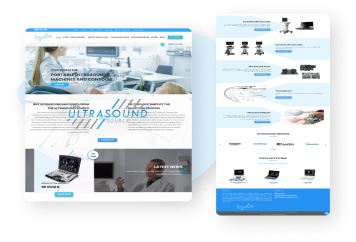
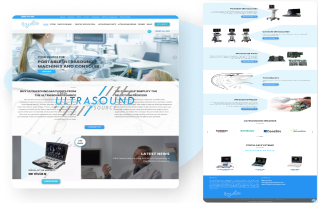
8th commit

diff --git a/portfolio.html b/portfolio.html
@@ -176,8 +176,8 @@
                   </div>
                   <div class="col-lg-4">
                     <div class="portfolio-card-list">
-                      <img src="./img/portfolio/portfolio-card-1.png" alt="" />
-                      <p>Pabna Online</p>
+                      <img src="./img/portfolio/portfolio-card-2.png" alt="" />
+                      <p>The Ultrasound</p>
                       <div class="portfolio-card-list-btn">
                         <a href="#">Live Preview</a>
                         <a href="#">View More</a>
@@ -186,41 +186,8 @@
                   </div>
                   <div class="col-lg-4">
                     <div class="portfolio-card-list">
-                      <img src="./img/portfolio/portfolio-card-1.png" alt="" />
-                      <p>Pabna Online</p>
-                      <div class="portfolio-card-list-btn">
-                        <a href="#">Live Preview</a>
-                        <a href="#">View More</a>
-                      </div>
-                    </div>
-                  </div>
-                </div>
-
-                <div class="row portfolio-cards-item">
-                  <div class="col-lg-4">
-                    <div class="portfolio-card-list">
-                      <img src="./img/portfolio/portfolio-card-1.png" alt="" />
-                      <p>Pabna Online</p>
-                      <div class="portfolio-card-list-btn">
-                        <a href="#">Live Preview</a>
-                        <a href="#">View More</a>
-                      </div>
-                    </div>
-                  </div>
-                  <div class="col-lg-4">
-                    <div class="portfolio-card-list">
-                      <img src="./img/portfolio/portfolio-card-1.png" alt="" />
-                      <p>Pabna Online</p>
-                      <div class="portfolio-card-list-btn">
-                        <a href="#">Live Preview</a>
-                        <a href="#">View More</a>
-                      </div>
-                    </div>
-                  </div>
-                  <div class="col-lg-4">
-                    <div class="portfolio-card-list">
-                      <img src="./img/portfolio/portfolio-card-1.png" alt="" />
-                      <p>Pabna Online</p>
+                      <img src="./img/portfolio/portfolio-card-3.png" alt="" />
+                      <p>Travnext</p>
                       <div class="portfolio-card-list-btn">
                         <a href="#">Live Preview</a>
                         <a href="#">View More</a>
@@ -232,8 +199,8 @@
                 <div class="row portfolio-cards-item">
                   <div class="col-lg-4">
                     <div class="portfolio-card-list">
-                      <img src="./img/portfolio/portfolio-card-1.png" alt="" />
-                      <p>Pabna Online</p>
+                      <img src="./img/portfolio/portfolio-card-2.png" alt="" />
+                      <p>The Ultrasound</p>
                       <div class="portfolio-card-list-btn">
                         <a href="#">Live Preview</a>
                         <a href="#">View More</a>
@@ -244,6 +211,39 @@
                     <div class="portfolio-card-list">
                       <img src="./img/portfolio/portfolio-card-1.png" alt="" />
                       <p>Pabna Online</p>
+                      <div class="portfolio-card-list-btn">
+                        <a href="#">Live Preview</a>
+                        <a href="#">View More</a>
+                      </div>
+                    </div>
+                  </div>
+                  <div class="col-lg-4">
+                    <div class="portfolio-card-list">
+                      <img src="./img/portfolio/portfolio-card-4.png" alt="" />
+                      <p>Agencycare</p>
+                      <div class="portfolio-card-list-btn">
+                        <a href="#">Live Preview</a>
+                        <a href="#">View More</a>
+                      </div>
+                    </div>
+                  </div>
+                </div>
+
+                <div class="row portfolio-cards-item">
+                  <div class="col-lg-4">
+                    <div class="portfolio-card-list">
+                      <img src="./img/portfolio/portfolio-card-4.png" alt="" />
+                      <p>Agencycare</p>
+                      <div class="portfolio-card-list-btn">
+                        <a href="#">Live Preview</a>
+                        <a href="#">View More</a>
+                      </div>
+                    </div>
+                  </div>
+                  <div class="col-lg-4">
+                    <div class="portfolio-card-list">
+                      <img src="./img/portfolio/portfolio-card-2.png" alt="" />
+                      <p>The Ultrasound</p>
                       <div class="portfolio-card-list-btn">
                         <a href="#">Live Preview</a>
                         <a href="#">View More</a>

diff --git a/style.css b/style.css
@@ -86,6 +86,7 @@ a {
     z-index: 1;
     display: inline-block;
 }
+
 .course-btn::before {
     content: '';
     position: absolute;
@@ -117,6 +118,7 @@ a {
         transform: scale(1);
         opacity: 1;
     }
+
     100% {
         transform: scale(1.2, 1.5);
         opacity: 0;
@@ -384,6 +386,7 @@ a.more-btn {
     text-decoration: none;
     color: #000;
 }
+
 .service-card-link:hover {
     color: #DD0000;
 }
@@ -426,6 +429,7 @@ a.more-btn {
 /* Web Technologies Section */
 
 /* Our Portfolio Section */
+
 .portfolio-section {
     margin: 80px 0 120px 0;
 }
@@ -445,11 +449,6 @@ a.more-btn {
 @media screen and (max-width: 576px) {
     .nav-tabs {
         width: 100%;
-    }
-
-    .portfolio-view img {
-        width: 100%;
-        height: 500px;
     }
 }
 
@@ -1171,7 +1170,7 @@ a.more-btn {
     margin: 20px 0 10px 0;
 }
 
-.package-btn a{
+.package-btn a {
     position: relative;
     padding: 10px 35px;
     text-align: center;
@@ -1242,7 +1241,8 @@ a.more-btn {
     right: 0;
 }
 
-.package-list p img, .package-phycology p img {
+.package-list p img,
+.package-phycology p img {
     width: 20px;
     height: 15px;
     padding-left: 5px;
@@ -1340,7 +1340,8 @@ a.more-btn {
         padding: 30px;
     }
 
-    .package-list h3, .package-phycology h3 {
+    .package-list h3,
+    .package-phycology h3 {
         font-size: 1.4em;
     }
 
@@ -1456,6 +1457,7 @@ a.more-btn {
     .package-include-text {
         padding-bottom: 20px;
     }
+
     .package-include {
         position: relative;
         padding: 30px 0 100px 0;
@@ -1518,8 +1520,8 @@ a.more-btn {
     }
 
     .migration {
-    height: 650px;
-}
+        height: 650px;
+    }
 }
 
 @media screen and (max-width: 1200px) {
@@ -1880,14 +1882,16 @@ a.more-btn {
         font-size: 2.5em;
         padding-bottom: 20px;
     }
-    
+
     .our-about-content .our-about-text {
         padding-top: 10px;
     }
 }
 
 @media screen and (max-width: 990px) {
-    .our-about-shape-top, .our-about-shape-bottom {
+
+    .our-about-shape-top,
+    .our-about-shape-bottom {
         display: none;
     }
 
@@ -1899,7 +1903,7 @@ a.more-btn {
         font-size: 2.1em;
         padding-bottom: 20px;
     }
-    
+
     .our-about-content .our-about-text {
         padding-top: 10px;
     }
@@ -2012,7 +2016,7 @@ a.more-btn {
     .teams-text h3 {
         font-size: 1.5em;
     }
-    
+
     .teams-text p {
         font-size: 1em;
     }
@@ -2262,7 +2266,7 @@ a.more-btn {
     .contact-hero-content p {
         padding-bottom: 10px;
         font-size: 1em;
-    } 
+    }
 }
 
 @media screen and (max-width: 990px) {
@@ -2297,7 +2301,7 @@ a.more-btn {
 .main-contact-form textarea:focus {
     border: 1px solid #DD0000 !important;
     box-shadow: none !important;
-    
+
 }
 
 .main-contact-form input:focus::-webkit-input-placeholder,
@@ -2677,6 +2681,8 @@ a.more-btn {
 .portfolio-card-list img {
     width: 100%;
     transition: 0.5s;
+    display: block;
+    margin: auto;
 }
 
 .portfolio-card-list p {
@@ -2754,7 +2760,44 @@ a.more-btn {
 }
 
 
+@media screen and (max-width: 1200px) {
+    .portfolio-card-tabs .nav-link {
+        padding: 6px 25px !important;
+        font-size: 0.9em !important;
+    }
 
+    .portfolio-card-list-btn a {
+        font-size: 1em;
+        padding: 8px 15px;
+    }
+}
+
+@media screen and (max-width: 990px) {
+    .portfolio-card-list {
+        padding: 35px;
+    }
+
+    .portfolio-cards-item {
+        margin-top: 0 !important;
+    }
+
+    #portfolio-card {
+        width: 100%;
+        background: #FEEAEA;
+    }
+}
+
+@media screen and (max-width: 768px) {
+    .portfolio-card-tabs .nav-link {
+        padding: 6px 35px !important;
+        font-size: 1em !important;
+        margin-top: 10px !important;
+    }
+
+    .portfolio-card-list {
+        padding: 25px;
+    }
+}
 
 
 
@@ -2775,9 +2818,3 @@ a.more-btn {
 
 
 /* Portfolio Card End */
-
-
-
-
-
-
